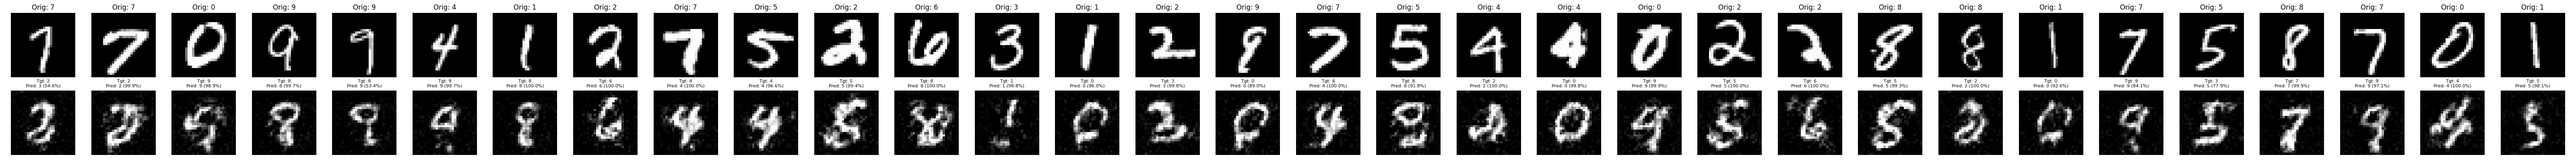
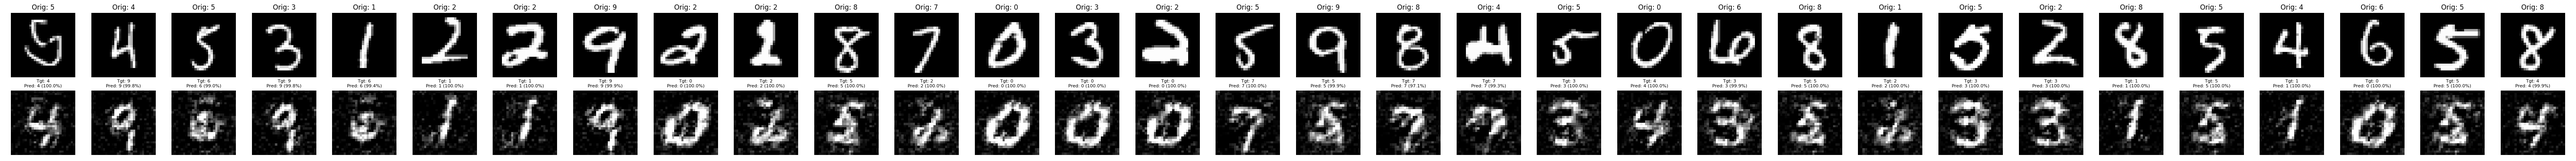
mnist best in gan_train_copy.py

diff --git a/conditional_counteRGAN/mnist/trainer.py b/conditional_counteRGAN/mnist/trainer.py
@@ -55,32 +55,18 @@ def train_countergan(generator, discriminator, classifier, train_loader, cfg, de
         sum_g_cls = 0.0
         num_batches = 0
 
-        # instance-noise schedule (linear decay)
-        # max_noise = 0.15
-        # noise_std = max_noise * (1.0 - (epoch / (cfg.num_epochs_gan - 1 + 1e-8)))
-
         for batch_idx, (x, y) in enumerate(train_loader):
             x, y = x.to(device), y.to(device)
             bs = x.size(0)
             num_batches += 1
 
-            target_y = torch.randint(0, cfg.num_classes, (1,), device=device).expand(bs)
+            target_y = torch.randint(0, cfg.num_classes, (bs,), device=device)
             
             residual = generator(x, target_y)
             x_cf = torch.clamp(x + residual, -1.0, 1.0)
 
             # Discriminator update
             opt_d.zero_grad()
-            # # add small instance noise to stabilize D (decays over epochs)
-            # if noise_std > 0:
-            #     x_noisy = x + torch.randn_like(x) * noise_std
-            #     x_cf_noisy = x_cf.detach() + torch.randn_like(x_cf) * noise_std
-            # else:
-            #     x_noisy = x
-            #     x_cf_noisy = x_cf.detach()
-
-            # # label smoothing for real
-            # real_label_value = 0.9
             d_real_logits = discriminator(x, y)
             d_fake_logits = discriminator(x_cf.detach(), target_y)
 

diff --git a/conditional_counteRGAN/mnist/config.py b/conditional_counteRGAN/mnist/config.py
@@ -7,8 +7,8 @@ class Config:
     num_epochs_gan = 25
     num_epochs_clf = 10
     cls_lr = 1e-3
-    d_lr = 5e-5
-    g_lr = 1e-4
+    d_lr = 1e-5
+    g_lr = 2e-5
     lambda_adv = 1.0
     lambda_cls = 1.0
     lambda_reg = 0.03
@@ -20,15 +20,3 @@ class Config:
     save_dir = "./results"
     classifier_path = f"{save_dir}/best_classifier.pt"
     data_dir = "/mnt/data"
-
-# --- robust classifier training options ---
-    adv_training = True
-    adv_eps = 0.25   # perturbation radius in normalized space (~[-1,1])
-    adv_alpha = 0.05
-    adv_steps = 7
-
-    # augmentation intensity for classifier training
-    aug_rot_deg = 25
-    aug_translate = 0.12
-    aug_shear = 10
-    aug_perspective = 0.5

diff --git a/conditional_counteRGAN/mnist/models/generator.py b/conditional_counteRGAN/mnist/models/generator.py
@@ -20,16 +20,7 @@ class ResidualGenerator(nn.Module):
             nn.Conv2d(self.g_hidden, self.g_hidden, 3, 1, 1),
             nn.ReLU(inplace=True),
 
-            nn.Conv2d(self.g_hidden, self.g_hidden, 3, 1, 1),
-            nn.ReLU(inplace=True),
-
-            nn.Conv2d(self.g_hidden, self.g_hidden, 3, 1, 1),
-            nn.ReLU(inplace=True),
-
-            nn.Conv2d(self.g_hidden, self.g_hidden, 3, 1, 1),
-            nn.ReLU(inplace=True),
-
-            nn.Conv2d(self.g_hidden, self.img_channel, 3, 1, 1),
+            nn.Conv2d(self.g_hidden, 1, 3, 1, 1)
         )
 
     def forward(self, x, target):

diff --git a/conditional_counteRGAN/mnist/models/discriminator.py b/conditional_counteRGAN/mnist/models/discriminator.py
@@ -20,14 +20,11 @@ class Discriminator(nn.Module):
             nn.Conv2d(self.d_hidden * 2, self.d_hidden * 4, 3, 2, 1, bias=False),
             nn.LeakyReLU(0.2, inplace=True),
 
-            nn.Conv2d(self.d_hidden * 4, self.d_hidden * 8, 3, 2, 1, bias=False),
-            nn.LeakyReLU(0.2, inplace=True),
-
             nn.AdaptiveAvgPool2d(1)
         )
 
         self.flatten = nn.Flatten()
-        self.adv_head = nn.Linear(self.d_hidden*8, 1)
+        self.adv_head = nn.Linear(self.d_hidden*4, 1)
         # self.cls_head = nn.Linear(self.d_hidden*8, num_classes)
 
     def forward(self, x, cond_idx):

diff --git a/conditional_counteRGAN/mnist/gan_train_copy.py b/conditional_counteRGAN/mnist/gan_train_copy.py
@@ -17,9 +17,9 @@ from modules.discriminator import Discriminator
 params = {
     'batch_size': 128,
     'epochs_clf': 10,
-    'epochs_gan': 30,
-    'lr_G': 1e-4,
-    'lr_D': 5e-5,
+    'epochs_gan': 50,
+    'lr_G': 5e-5,
+    'lr_D': 1e-5,
     'lr_C': 1e-3,
     'lambda_cls': 2.0,
     'lambda_reg': 0.01,
@@ -118,6 +118,7 @@ for epoch in range(params['epochs_gan']):
 
         random_class = torch.randint(0, 10, (1,), device=params['device']).item()
         target = torch.full_like(y_true, random_class)
+
 
         # Discriminator
         x_cf, _ = G(x, target)
